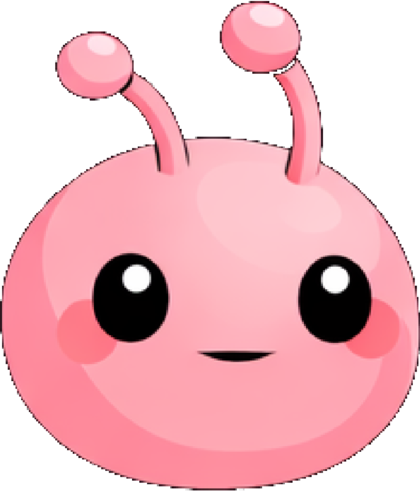
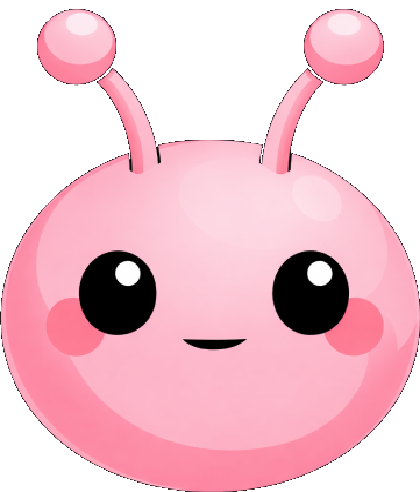
thêm assets

diff --git a/lib/components/worm/worm_head.dart b/lib/components/worm/worm_head.dart
@@ -32,10 +32,17 @@ class WormHead extends PositionComponent {
   bool _showCryFace = false;
   void setShowCryFace(bool value) => _showCryFace = value;
 
+  bool _useHelmet = false;
+  void setUseHelmet(bool value) => _useHelmet = value;
+
   Sprite? _spriteVertical;
   Sprite? _spriteHorizontal;
   Sprite? _spriteBack;
   Sprite? _spriteCry;
+  Sprite? _helmetVertical;
+  Sprite? _helmetHorizontal;
+  Sprite? _helmetBack;
+  Sprite? _helmetCry;
 
   @override
   void update(double dt) {
@@ -54,6 +61,13 @@ class WormHead extends PositionComponent {
     _spriteHorizontal = await Sprite.load(config.assetHorizontal, images: game.images);
     _spriteBack = await Sprite.load(config.assetBack, images: game.images);
     _spriteCry = await Sprite.load(config.assetCry, images: game.images);
+
+    if (config.hasHelmetAssets) {
+      _helmetVertical = await Sprite.load(config.assetHelmetVertical!, images: game.images);
+      _helmetHorizontal = await Sprite.load(config.assetHelmetHorizontal!, images: game.images);
+      _helmetBack = await Sprite.load(config.assetHelmetBack!, images: game.images);
+      _helmetCry = await Sprite.load(config.assetHelmetCry!, images: game.images);
+    }
   }
 
   @override
@@ -69,7 +83,8 @@ class WormHead extends PositionComponent {
 
     canvas.save();
     final bool flipX = direction == WormDirection.left;
-    final bool flipY = !_showCryFace && direction == WormDirection.up && sprite != _spriteBack;
+    final bool isBackSprite = sprite == _spriteBack || sprite == _helmetBack;
+    final bool flipY = !_showCryFace && direction == WormDirection.up && !isBackSprite;
     if (flipX || flipY) {
       canvas.translate(cx, cy);
       if (flipX) canvas.scale(-1.0, 1.0);
@@ -96,6 +111,13 @@ class WormHead extends PositionComponent {
 
   /// Override nếu cần logic chọn sprite khác (vd. không hiện cry khi đi lên).
   Sprite? get currentSprite {
+    final useHelmet = _useHelmet && _helmetVertical != null;
+    if (useHelmet) {
+      if (_showCryFace && _helmetCry != null && direction != WormDirection.up) return _helmetCry;
+      if (direction == WormDirection.up) return _helmetBack;
+      if (direction == WormDirection.down) return _helmetVertical;
+      return _helmetHorizontal;
+    }
     if (_showCryFace && _spriteCry != null && direction != WormDirection.up) return _spriteCry;
     if (direction == WormDirection.up) return _spriteBack;
     if (direction == WormDirection.down) return _spriteVertical;

diff --git a/lib/game/worm_journey_game.dart b/lib/game/worm_journey_game.dart
@@ -121,7 +121,7 @@ class WormJourneyGame extends FlameGame
     if (t <= 0) return;
     _missionTargetOverrides['mission2'] = t;
     if (_missionConfigs.every((m) => m.id != 'mission2')) {
-      _missionConfigs = [..._missionConfigs, const MissionConfig(id: 'mission2', label: 'Nhiệm vụ 2', target: 0, icon: null)];
+      _missionConfigs = [..._missionConfigs, const MissionConfig(id: 'mission2', typeId: 'prey_leaf', target: 0)];
       _missionCurrents = [..._missionCurrents, 0];
     }
   }
@@ -445,17 +445,16 @@ class WormJourneyGame extends FlameGame
       if (target <= 0) continue;
       missions.add(GameHudMission(
         id: m.id,
-        label: m.label,
+        typeId: m.typeId,
         current: _missionCurrents[i],
         target: target,
-        icon: m.icon,
       ));
     }
     if (!_loaded) {
       return GameHudData(
         timeRemainingSeconds: _timeLimit,
         diamonds: 0,
-        missions: missions.isEmpty ? [const GameHudMission(id: 'leaves', label: 'Lá cây', current: 0, target: 10, icon: '🍃')] : missions,
+        missions: missions.isEmpty ? [const GameHudMission(id: 'leaves', typeId: 'prey_leaf', current: 0, target: 10)] : missions,
         bossHp: 0,
         bossHpMax: 0,
         itemBuffs: const [],
@@ -602,22 +601,19 @@ class WormJourneyGame extends FlameGame
   }
 }
 
-/// Một nhiệm vụ trên HUD (x/xx). Target = 0 thì không hiển thị.
+/// Một nhiệm vụ trên HUD (x/xx). Target = 0 thì không hiển thị. Icon và label lấy từ EntityModels + l10n theo [typeId].
 class GameHudMission {
   const GameHudMission({
     required this.id,
-    required this.label,
+    required this.typeId,
     required this.current,
     required this.target,
-    this.icon,
   });
 
   final String id;
-  final String label;
+  final String typeId;
   final int current;
   final int target;
-  /// Icon optional (emoji hoặc asset), null thì chỉ hiện label.
-  final String? icon;
 }
 
 /// Dữ liệu HUD (sẽ load từ JSON config sau). Cập nhật trong lúc chơi.

diff --git a/lib/game/config/level_json_config.dart b/lib/game/config/level_json_config.dart
@@ -18,42 +18,38 @@ enum EnumRule {
   // noItems, noApple, ...
 }
 
-/// Một nhiệm vụ trong config (ăn N lá, ...).
+/// Một nhiệm vụ trong config. Icon và label lấy từ [EntityModels] + l10n theo [typeId].
 class MissionConfig {
   const MissionConfig({
     required this.id,
-    required this.label,
+    required this.typeId,
     required this.target,
-    this.icon,
   });
 
   final String id;
-  final String label;
+  /// typeId entity (vd. prey_leaf). HUD lấy icon từ EntityModels, name từ ARB (l10n.entityDisplayName).
+  final String typeId;
   final int target;
-  final String? icon;
 
   Map<String, dynamic> toJson() => {
         'id': id,
-        'label': label,
+        'typeId': typeId,
         'target': target,
-        if (icon != null) 'icon': icon,
       };
 
   static MissionConfig fromJson(Map<String, dynamic> json) {
     return MissionConfig(
       id: json['id'] as String? ?? 'leaves',
-      label: json['label'] as String? ?? 'Lá cây',
+      typeId: json['typeId'] as String? ?? 'prey_leaf',
       target: (json['target'] as num?)?.toInt() ?? 10,
-      icon: json['icon'] as String?,
     );
   }
 
   /// Mặc định: 1 nhiệm vụ ăn 10 lá.
   static const MissionConfig defaultLeaves = MissionConfig(
     id: 'leaves',
-    label: 'Lá cây',
+    typeId: 'prey_leaf',
     target: 10,
-    icon: '🍃',
   );
 }
 

diff --git a/lib/widgets/game_hud.dart b/lib/widgets/game_hud.dart
@@ -4,7 +4,9 @@ import 'package:flutter/foundation.dart';
 import 'package:flutter/material.dart';
 
 import '../common/debug_apply.dart';
+import '../game/entities/entity_models.dart';
 import '../game/worm_journey_game.dart';
+import '../gen_l10n/app_localizations.dart';
 import '../models/item_model.dart';
 
 /// Thanh HUD phía trên màn chơi: thời gian giữa, kim cương bên phải, nhiệm vụ & hiệu ứng bên trái.
@@ -106,14 +108,21 @@ class _LeftSection extends StatelessWidget {
 
   @override
   Widget build(BuildContext context) {
+    final l10n = AppLocalizations.of(context);
     return Column(
       mainAxisSize: MainAxisSize.min,
       crossAxisAlignment: CrossAxisAlignment.start,
       children: [
         for (final m in data.missions) ...[
-          Text(
-            m.icon != null ? '${m.icon} ${m.label} ${m.current}/${m.target}' : '${m.label} ${m.current}/${m.target}',
-            style: textStyle,
+          Builder(
+            builder: (_) {
+              final icon = EntityModels.icon(m.typeId);
+              final label = l10n.entityDisplayName(m.typeId);
+              return Text(
+                '$icon $label ${m.current}/${m.target}',
+                style: textStyle,
+              );
+            },
           ),
           const SizedBox(height: 2),
         ],

diff --git a/lib/components/worm/worm_head_config.dart b/lib/components/worm/worm_head_config.dart
@@ -1,10 +1,15 @@
 /// Cấu hình đầu sâu: đường dẫn asset, scale, offset vẽ (truyền lúc khởi tạo).
+/// [assetHelmet*] optional: khi có thì head có thể bật helmet (vd. buff dừa).
 class WormHeadConfig {
   const WormHeadConfig({
     required this.assetVertical,
     required this.assetHorizontal,
     required this.assetBack,
     required this.assetCry,
+    this.assetHelmetVertical,
+    this.assetHelmetHorizontal,
+    this.assetHelmetBack,
+    this.assetHelmetCry,
     this.imageScale = 1.32,
     this.antennaOffsetHorizontal = 0.18,
     this.antennaOffsetUp = 0.1,
@@ -15,8 +20,18 @@ class WormHeadConfig {
   final String assetHorizontal;
   final String assetBack;
   final String assetCry;
+  final String? assetHelmetVertical;
+  final String? assetHelmetHorizontal;
+  final String? assetHelmetBack;
+  final String? assetHelmetCry;
   final double imageScale;
   final double antennaOffsetHorizontal;
   final double antennaOffsetUp;
   final double antennaOffsetDown;
+
+  bool get hasHelmetAssets =>
+      assetHelmetVertical != null &&
+      assetHelmetHorizontal != null &&
+      assetHelmetBack != null &&
+      assetHelmetCry != null;
 }

diff --git a/lib/game/screens/game_play_scaffold.dart b/lib/game/screens/game_play_scaffold.dart
@@ -92,7 +92,13 @@ class _GamePlayScaffoldState extends State<GamePlayScaffold> {
                 ),
                 Container(
                   width: double.infinity,
-                  color: Colors.grey.shade300,
+                  decoration: BoxDecoration(
+                    image: DecorationImage(
+                      image: const AssetImage('assets/images/bottom_joystick.png'),
+                      fit: BoxFit.cover,
+                      alignment: Alignment.topCenter,
+                    ),
+                  ),
                   padding: const EdgeInsets.symmetric(
                     vertical: 0,
                     horizontal: 12,
@@ -105,7 +111,7 @@ class _GamePlayScaffoldState extends State<GamePlayScaffold> {
                         Expanded(
                           child: SingleChildScrollView(
                             child: Padding(
-                              padding: const EdgeInsets.only(top: 12),
+                              padding: const EdgeInsets.only(top: 24),
                               child: Wrap(
                                 spacing: 6,
                                 runSpacing: 6,

diff --git a/lib/components/pink_worm/pink_worm_config.dart b/lib/components/pink_worm/pink_worm_config.dart
@@ -11,6 +11,10 @@ class PinkWormHeadConfig extends WormHeadConfig {
           assetHorizontal: 'component/worm/pink_worm/pink_worm_head_horizontal.png',
           assetBack: 'component/worm/pink_worm/pink_worm_head_back.png',
           assetCry: 'component/worm/pink_worm/pink_worm_head_cry.png',
+          assetHelmetVertical: 'component/worm/pink_worm/helmet/pink_worm_helmet_vertical.png',
+          assetHelmetHorizontal: 'component/worm/pink_worm/helmet/pink_worm_helmet_horizontal.png',
+          assetHelmetBack: 'component/worm/pink_worm/helmet/pink_worm_helmet_back.png',
+          assetHelmetCry: 'component/worm/pink_worm/helmet/pink_worm_helmet_cry.png',
           imageScale: 1.32,
           antennaOffsetHorizontal: 0.18,
           antennaOffsetUp: 0.1,

diff --git a/lib/gen_l10n/app_localizations.dart b/lib/gen_l10n/app_localizations.dart
@@ -51,6 +51,23 @@ abstract class AppLocalizations {
   String get itemBombDescription;
   String get itemSeedName;
   String get itemSeedDescription;
+  String get entityPreyLeafName;
+  String get entityPreyCoconutName;
+  String get entityXMarkName;
+
+  /// Tên hiển thị entity theo typeId — lấy từ ARB (entityPreyLeafName, ...).
+  String entityDisplayName(String typeId) {
+    switch (typeId) {
+      case 'prey_leaf':
+        return entityPreyLeafName;
+      case 'prey_apple':
+        return entityPreyCoconutName;
+      case 'x_mark':
+        return entityXMarkName;
+      default:
+        return typeId;
+    }
+  }
 
   String itemName(String id) {
     switch (id) {

diff --git a/lib/components/worm/worm.dart b/lib/components/worm/worm.dart
@@ -105,6 +105,11 @@ class Worm extends PositionComponent {
     _syncVisuals();
   }
 
+  /// Bật/tắt head dùng bộ ảnh helmet (vd. buff dừa). Chỉ có tác dụng nếu [WormHeadConfig] có helmet assets.
+  void setHeadHelmet(bool useHelmet) {
+    _head.setUseHelmet(useHelmet);
+  }
+
   /// Hướng hiện tại (đã áp next nếu có).
   WormDirection get currentDirection => _nextDirection ?? _direction;
 

diff --git a/lib/game/entities/entity_model.dart b/lib/game/entities/entity_model.dart
@@ -20,7 +20,7 @@ extension ProjectTypeExtension on ProjectType {
   }
 }
 
-/// Model gốc cho entity: icon, độ cứng, type. Model con (grey, obstacle) set mặc định trong class.
+/// Model gốc cho entity: icon, độ cứng, type. Tên hiển thị lấy từ ARB qua [AppLocalizations.entityDisplayName(typeId)].
 abstract class EntityModel {
   String get icon;
   int get hardness;

diff --git a/lib/gen_l10n/app_localizations_vi.dart b/lib/gen_l10n/app_localizations_vi.dart
@@ -77,4 +77,13 @@ class AppLocalizationsVi extends AppLocalizations {
 
   @override
   String get itemSeedDescription => 'Tạo thêm 3 lá cây.';
+
+  @override
+  String get entityPreyLeafName => 'Chiếc lá';
+
+  @override
+  String get entityPreyCoconutName => 'Quả dừa';
+
+  @override
+  String get entityXMarkName => 'Chướng ngại vật';
 }

diff --git a/lib/gen_l10n/app_localizations_en.dart b/lib/gen_l10n/app_localizations_en.dart
@@ -77,4 +77,13 @@ class AppLocalizationsEn extends AppLocalizations {
 
   @override
   String get itemSeedDescription => 'Spawns 3 more leaves.';
+
+  @override
+  String get entityPreyLeafName => 'Leaf';
+
+  @override
+  String get entityPreyCoconutName => 'Coconut';
+
+  @override
+  String get entityXMarkName => 'Obstacle';
 }
